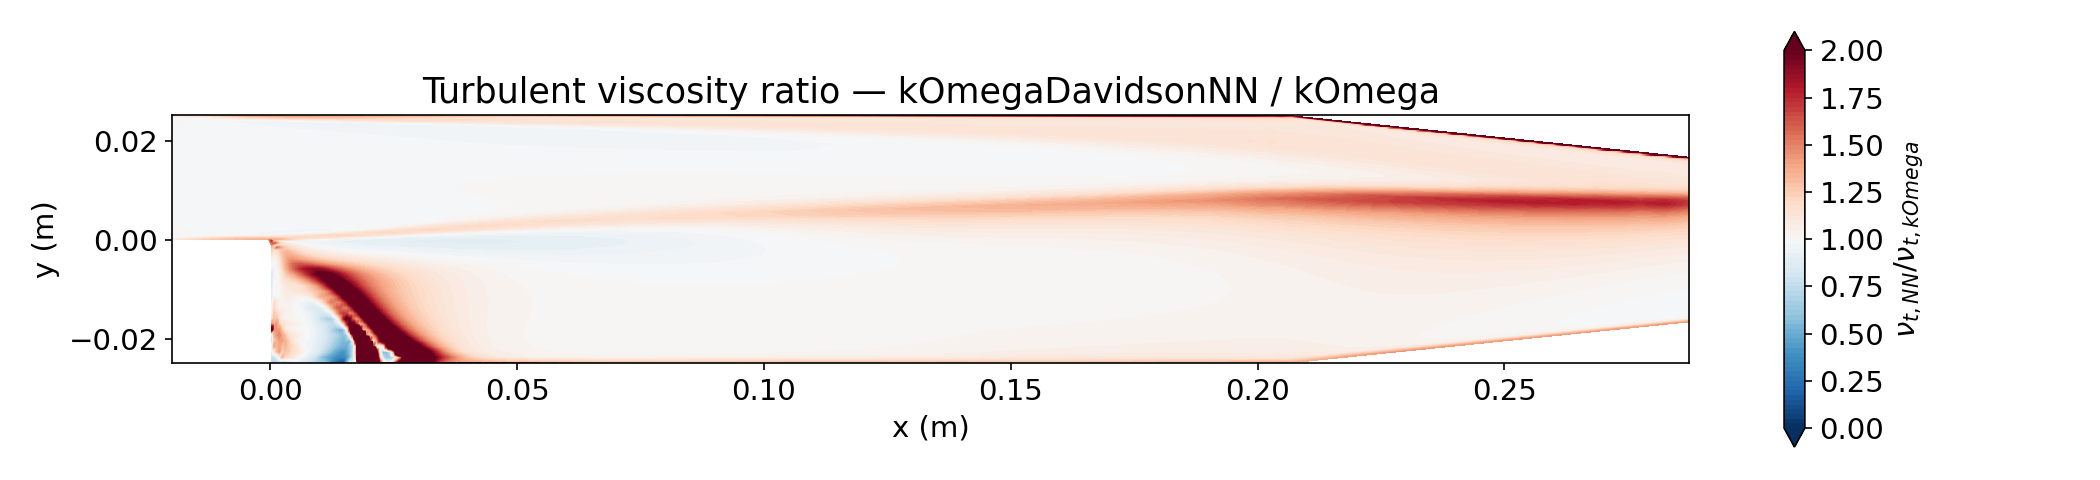
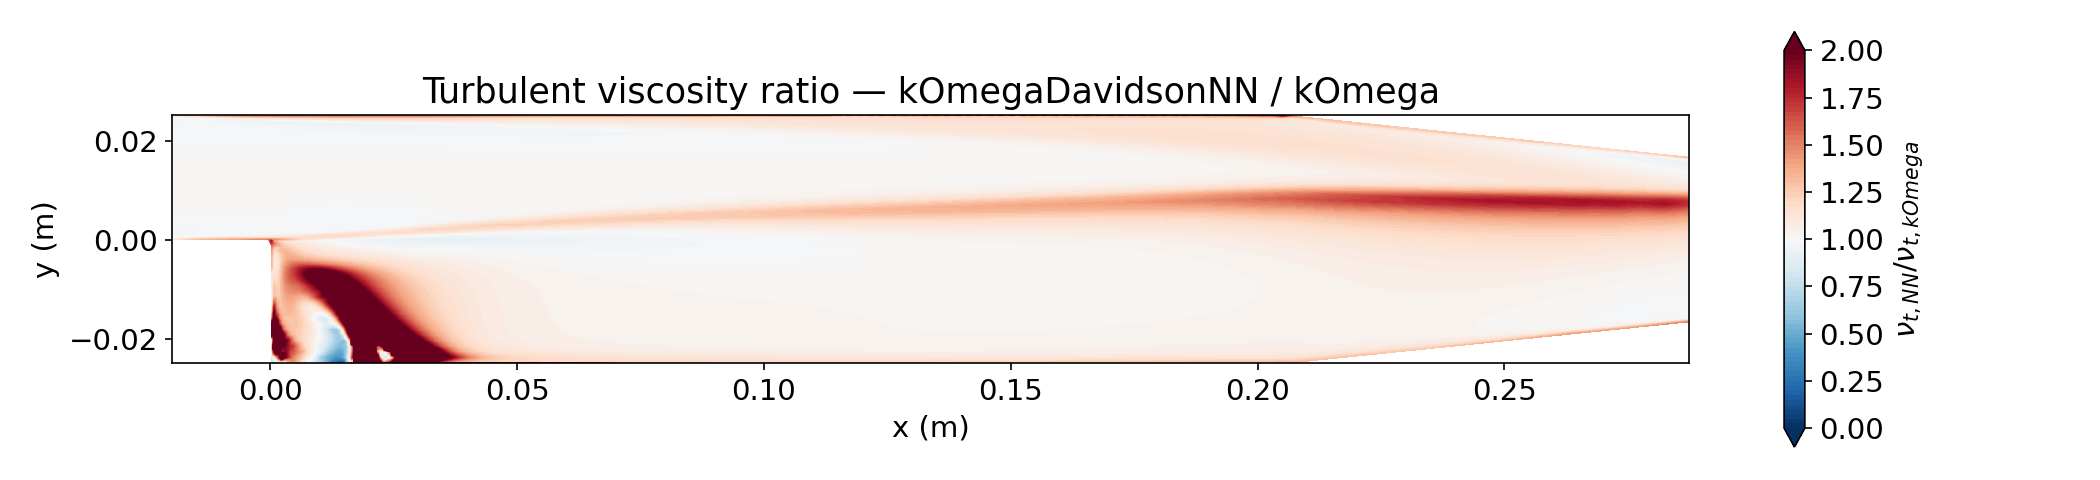
pitzDaily: rerun with per-column u_tau fix
Reran both sub-cases against the rebuilt library (per-column u_tau,
committed earlier as part of the periodicHill work). kOmega is unaffected
(doesn't use the NN's u_tau normalisation); kOmegaDavidsonNN's
reattachment length barely moved (7.31 -> 7.28 x/H), still close to
Pitz & Daily's 7.0. Field comparison plots, NN coefficients, nut ratio,
and streamlines regenerated accordingly. Updated README to reflect the
rerun and note pitzDaily still uses kqRWallFunction for k (the
wall-BC/mesh-resolution fix found for flatPlate has not been applied here).

diff --git a/README.md b/README.md
@@ -233,8 +233,16 @@ v2606).
 | Sub-case | Reattachment x/H |
 |---|---|
 | `kOmega` | 7.32 |
-| `kOmegaDavidsonNN` | 7.31 |
+| `kOmegaDavidsonNN` | 7.28 |
 | Experiment (Pitz & Daily 1983, Re_H=22,000) | 7.0 |
+
+Rerun with the per-column u_τ fix (see "Known limitations" below) — the
+NN's own friction-velocity normalisation now varies along the wall instead
+of using one domain-wide average. Reattachment length barely moved
+(7.31→7.28); `kOmega` is unaffected (it doesn't use the NN's u_τ
+normalisation at all). This case's separate wall-BC/mesh-resolution issue
+found for `flatPlate` (see that section) has *not* been applied here yet —
+pitzDaily still uses `kqRWallFunction` for k.
 
 Good agreement, with a small residual gap plausibly explained by the
 Reynolds number mismatch (this case's Re_H=25,400 vs. the experiment's
@@ -545,8 +553,9 @@ relaxationFactors
   almost everywhere. That turned out to be expected model behaviour on
   this flow rather than a normalisation artifact — see the "periodicHill
   sub-cases" section above. `pitzDaily` (also a multi/separated-wall case)
-  inherits the same per-column change but has not yet been specifically
-  re-validated against it.
+  inherits the same per-column change and has been re-validated against it
+  — reattachment length barely moved (7.31→7.28), see "pitzDaily sub-cases"
+  above.
 - **`flatPlate`'s previously-reported Re_θ≈4750–4900 near-discontinuous
   transition was a u_τ normalisation artifact, not a genuine model
   property — now fixed.** An earlier investigation ruled out the EWMA
